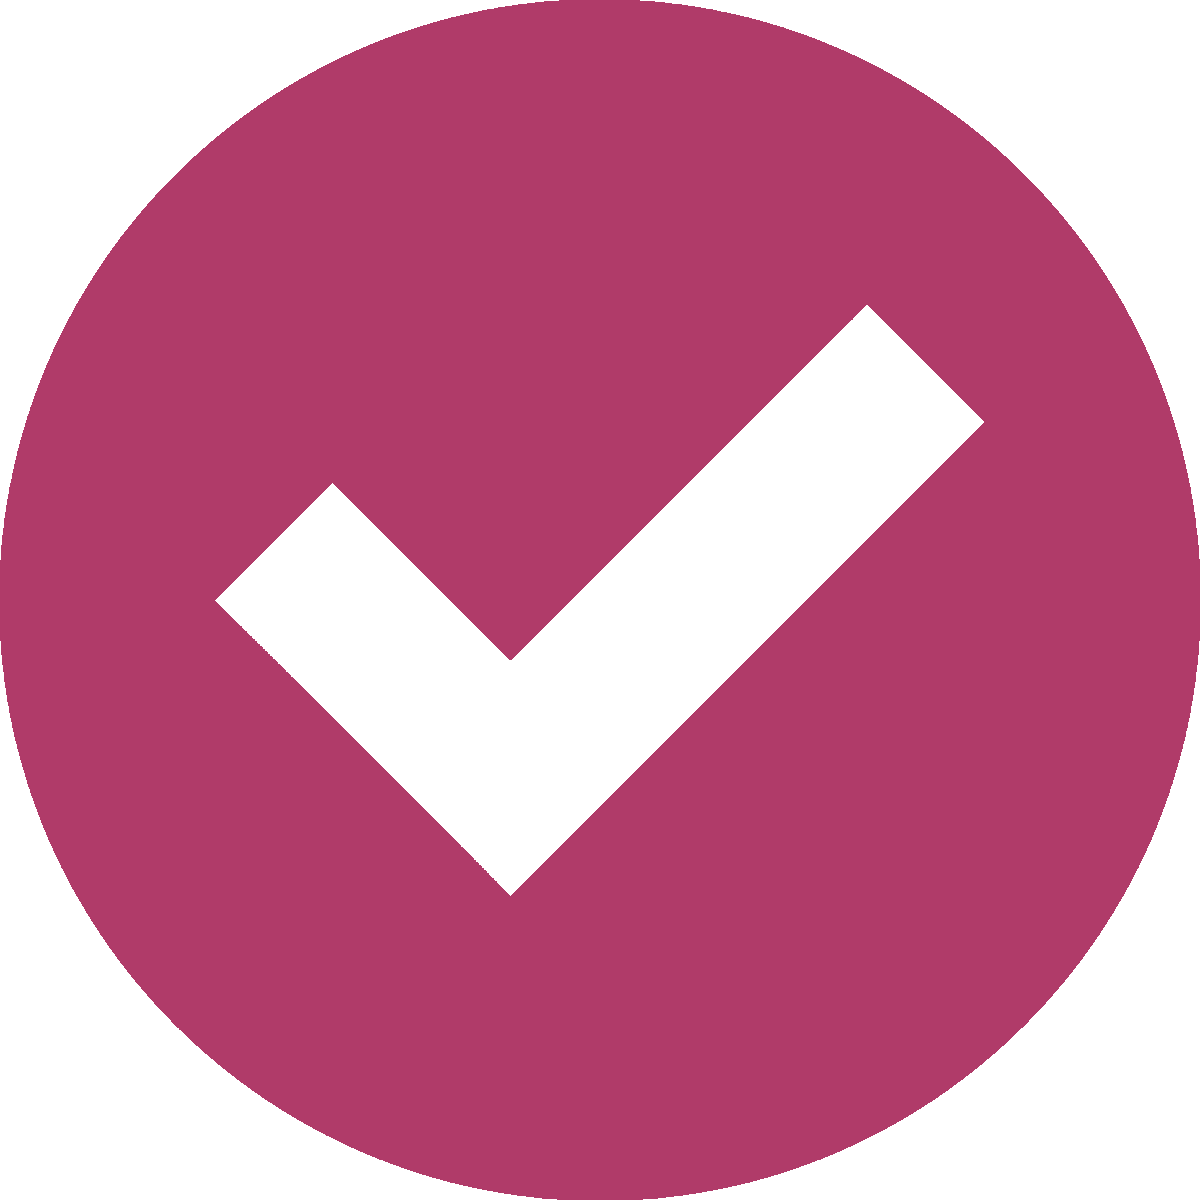
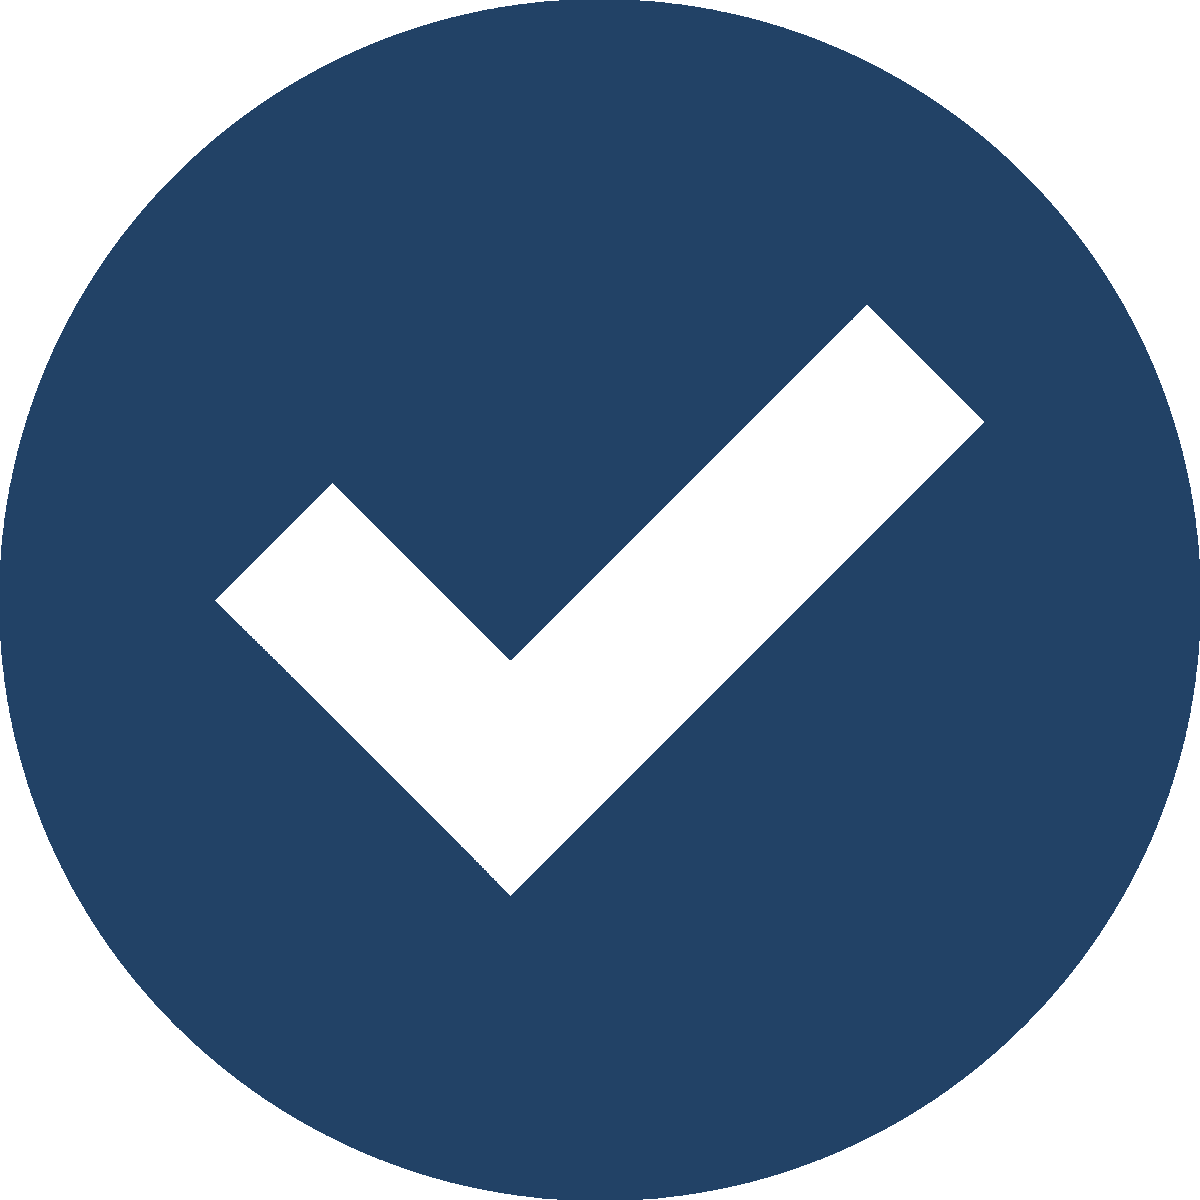
Update positioning of result message and change image color to blue

diff --git a/assets/partials/partial.html b/assets/partials/partial.html
@@ -8,10 +8,13 @@
     <button class="btn btn-primary" ng-click="check()">Find Out Now</button>
   </div>
   <div ng-show="displayResult">
-    <div class="resultUrl">
-      <img class="resultImg" ng-src={{img}}>
-      <span>{{resultUrl}} {{message}}</span>
-        <p ng-repeat="reason in reasons">{{reason}}</p>
+    <img class="resultImg" ng-src={{img}}>
+    <!-- {{resultUrl}} -->
+    <div class="resultMsg">
+      <span class="resultUrl"> {{message}}</span>
+      <ul>
+        <li ng-repeat="reason in reasons">{{reason}}</li>
+      </ul>
     </div>
   </div>
   <div ng-show="displayError">

diff --git a/assets/css/app.css b/assets/css/app.css
@@ -5,20 +5,23 @@ body {
   background-color: #e3ebf6;
   color: #224266;
 }
+.resultMsg {
+  margin-left: 120px;
+}
 .resultImg {
+  display: inline-block;
+  float: left;
   margin-right: 15px;
-  width: 50px;
-  height: 50px;
+  width: 75px;
+  height: 75px;
+}
+.resultMsg {
+  display: inline-block;
 }
 .resultUrl {
-  height: 50px;
   line-height: 50px;
   text-align: center;
-}
-.resultUrl span {
-  display: inline-block;
-  vertical-align: middle;
-  line-height: normal; 
+  font-size: 16px;
 }
 .btn-primary {
   background-color: #b03b69;
